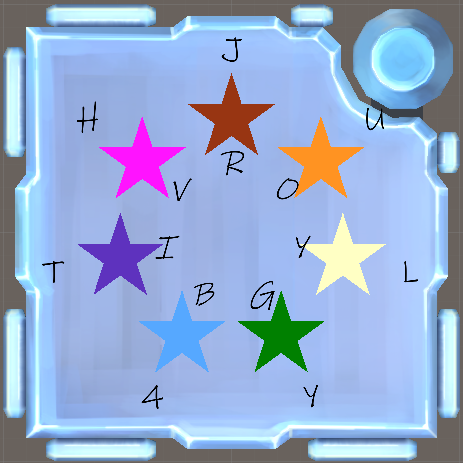
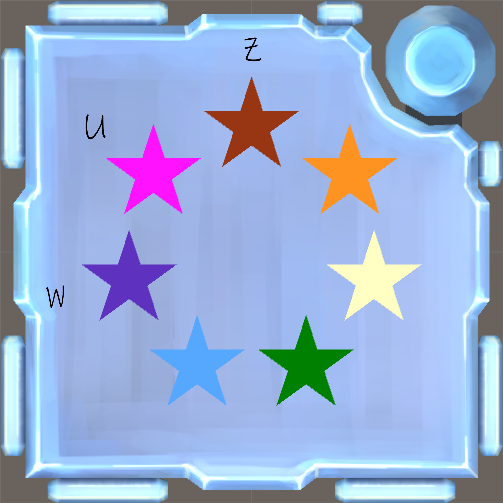
fun fact im the only person who cares

diff --git a/Assets/spangledStarsScript.cs b/Assets/spangledStarsScript.cs
@@ -10,6 +10,7 @@ public class spangledStarsScript : MonoBehaviour {
 
     public KMBombInfo Bomb;
     public KMAudio Audio;
+    public KMColorblindMode CBthing;
 
     public KMSelectable[] Stars;
     public Material[] Colors; //ROYGBIVW
@@ -38,6 +39,8 @@ public class spangledStarsScript : MonoBehaviour {
     string Input = "";
     string Keyboard = "ROYGBIV";
     string StarsToKeys = "";
+    string HowMuchOfAnIdiotAmIMostOfTheseVariableNamesAreConfusingAsFuckWhatIsWrongWithMe = "ROYGBIV";
+    bool CBactive = false;
 
     //Logging
     static int moduleIdCounter = 1;
@@ -53,18 +56,24 @@ public class spangledStarsScript : MonoBehaviour {
 
     // Use this for initialization
     void Start () {
+        if (CBthing.ColorblindModeActive) {
+            CBactive = true;
+        }
+
         ColorOrder.Shuffle();
         for (int i = 0; i < 7; i++) {
             Stars[i].GetComponent<MeshRenderer>().material = Colors[ColorOrder[i]];
-            switch (ColorOrder[i]) {
-                case 0: InsideLetters[i].text = "R"; break;
-                case 1: InsideLetters[i].text = "O"; break;
-                case 2: InsideLetters[i].text = "Y"; break;
-                case 3: InsideLetters[i].text = "G"; break;
-                case 4: InsideLetters[i].text = "B"; break;
-                case 5: InsideLetters[i].text = "I"; break;
-                case 6: InsideLetters[i].text = "V"; break;
-                default: break;
+            if (CBactive) {
+                switch (ColorOrder[i]) {
+                    case 0: InsideLetters[i].text = "R"; break;
+                    case 1: InsideLetters[i].text = "O"; break;
+                    case 2: InsideLetters[i].text = "Y"; break;
+                    case 3: InsideLetters[i].text = "G"; break;
+                    case 4: InsideLetters[i].text = "B"; break;
+                    case 5: InsideLetters[i].text = "I"; break;
+                    case 6: InsideLetters[i].text = "V"; break;
+                    default: break;
+                }
             }
         }
         Debug.LogFormat("[Spangled Stars #{0}] Colors of stars in clockwise order: {1}{2}{3}{4}{5}{6}{7}", moduleId, Keyboard[ColorOrder[0]], Keyboard[ColorOrder[1]], Keyboard[ColorOrder[2]], Keyboard[ColorOrder[3]], Keyboard[ColorOrder[4]], Keyboard[ColorOrder[5]], Keyboard[ColorOrder[6]]);
@@ -290,10 +299,20 @@ public class spangledStarsScript : MonoBehaviour {
     }
 
     //toilet paper support
-    public string TwitchHelpMessage = "Use '!{0} press 1 2 3 4 5 6 7' to press stars 1, 2, 3, 4, 5, 6 and 7. The buttons are numbered from 1 to 7 going clockwise starting from the topmost.";
+    public string TwitchHelpMessage = "Use '!{0} press 1 2 3 4 5 6 7' to press stars 1, 2, 3, 4, 5, 6 and 7. The buttons are numbered from 1 to 7 going clockwise starting from the topmost. | !{0} colorblind [Toggles colorblind mode]";
 
     public IEnumerator ProcessTwitchCommand(string command)
     {
+        if (Regex.IsMatch(command, @"^\s*colorblind\s*$", RegexOptions.IgnoreCase | RegexOptions.CultureInvariant) || Regex.IsMatch(command, @"^\s*cb\s*$", RegexOptions.IgnoreCase | RegexOptions.CultureInvariant))
+        {
+            yield return null;
+            CBactive = !CBactive;
+            for (int i = 0; i < 7; i++) {
+                InsideLetters[i].text = CBactive ? HowMuchOfAnIdiotAmIMostOfTheseVariableNamesAreConfusingAsFuckWhatIsWrongWithMe[ColorOrder[i]].ToString() : " ";
+            }
+            yield break;
+        }
+
 		string commfinal=command.Replace("press ", "");
 		string[] digitstring = commfinal.Split(' ');
 		int tried;
